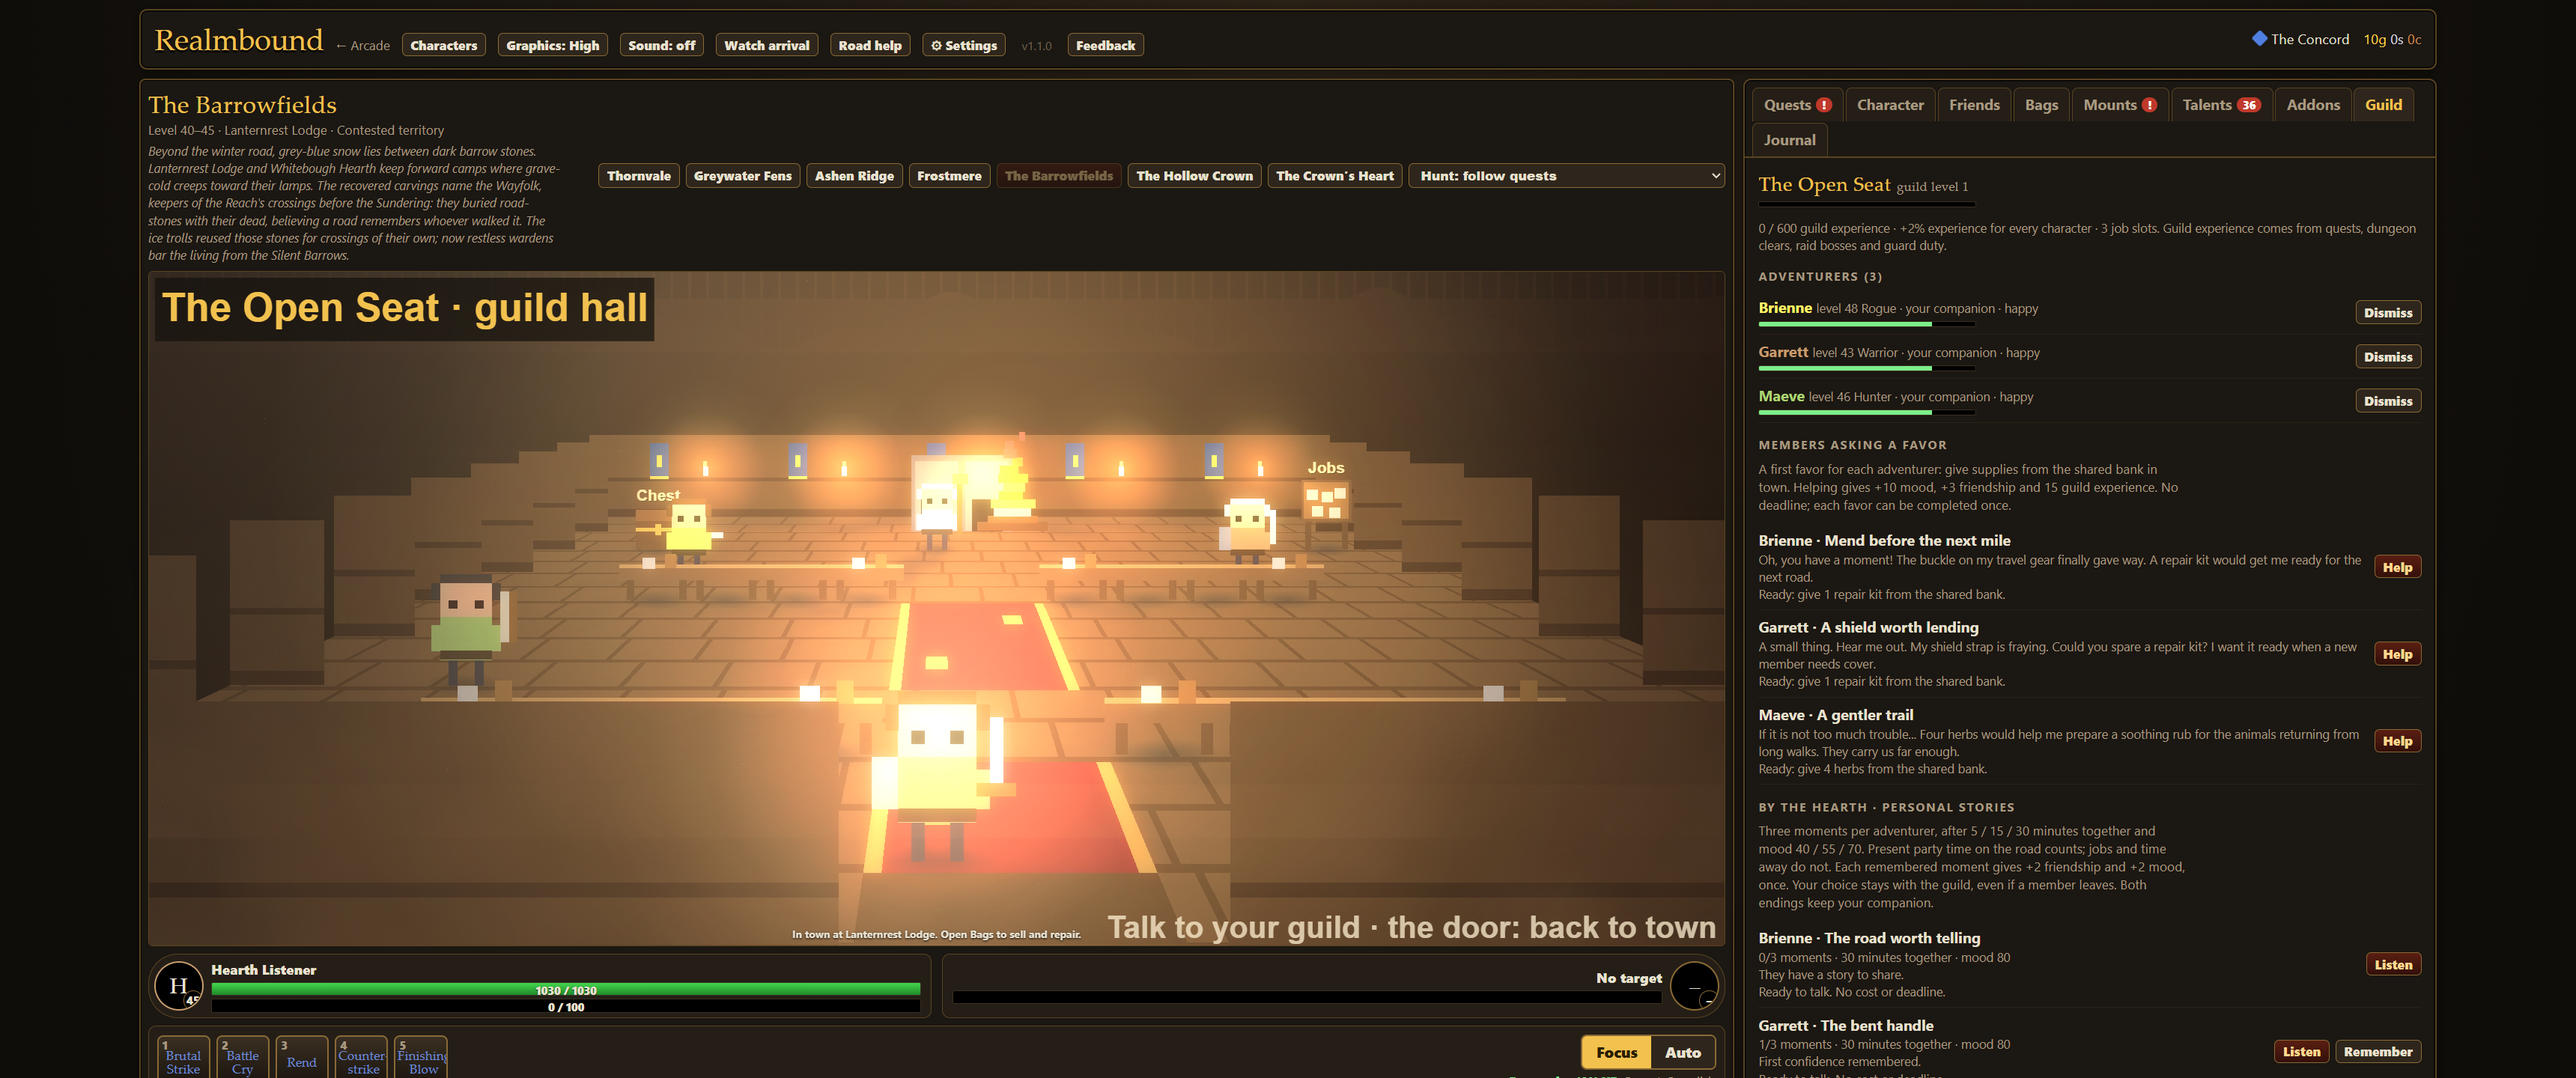
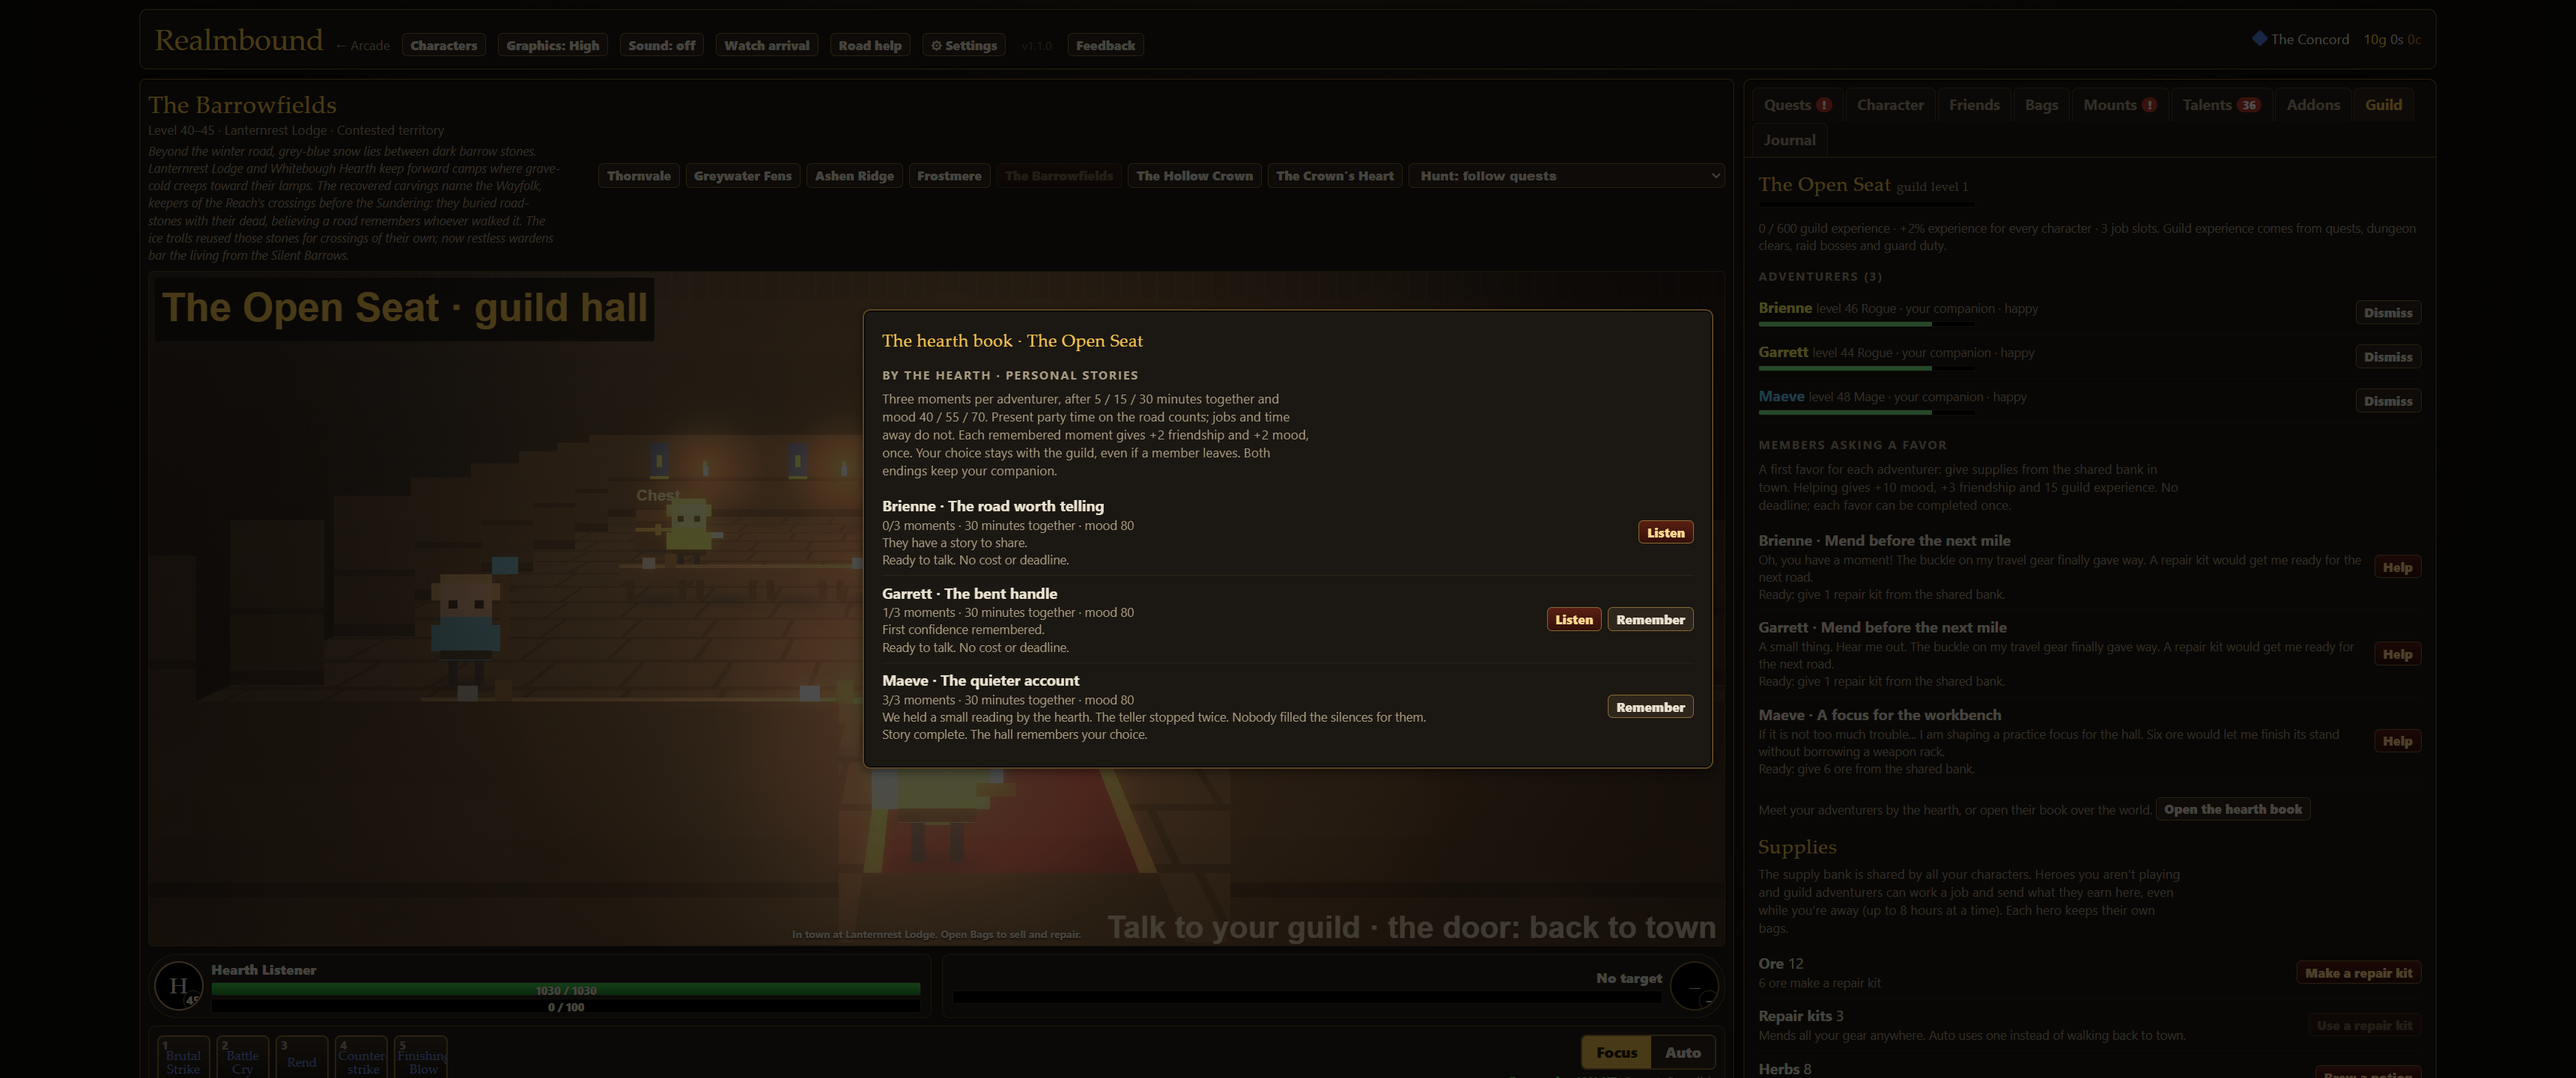
Put guild stories in a hearth book over the game world

diff --git a/games/realmbound/js/27-member-stories.js b/games/realmbound/js/27-member-stories.js
@@ -108,7 +108,8 @@ function playMemberStory(key, replay) {
   const w = workerOf(key), story = memberStoryData(key), state = memberStoryState(key);
   if (!w || !story || (replay ? !state.done : memberStoryProblem(key))) return false;
   if (replay && memberStoryMeetingProblem(key)) return false;
-  const hero = H(), account = S, member = w.m, expected = state.done;
+  const hero = H(), account = S, member = w.m, expected = state.done, book = modalKind === 'memberstories';
+  if (book) closeModal();
   const voice = MEMBER_STORY_VOICE[w.n.pers] || MEMBER_STORY_VOICE.cheerful;
   const lines = replay ? [[w.name, story[1]]].concat(state.done >= 2 ? [[w.name, story[2]], [hero.name, story[3 + state.choice]]] : [], state.done >= 3 ? [[w.name + ':happy', story[5 + state.choice]]] : [])
     : [[w.name, voice[expected]], [w.name, expected === 0 ? story[1] : expected === 1 ? story[2] : story[5 + state.choice]]];
@@ -118,10 +119,16 @@ function playMemberStory(key, replay) {
   SCN.play(lines, choice => {
     if (MEMBER_STORY_FACE === face) { MEMBER_STORY_FACE = null; SCN.el.classList.remove('member-story-dialogue'); }
     // Hero/account changes, dismissal and stale callbacks cannot spend another hero's response.
-    if (replay || S !== account || H() !== hero || G().members[key] !== member) return;
-    if (finishMemberStory(key, expected, choice)) renderTab(true);
+    if (S !== account || H() !== hero || G().members[key] !== member) return;
+    if (!replay && finishMemberStory(key, expected, choice)) renderTab(true);
+    if (book) openMemberStoryBook();
   }, { choices });
   C.lastInput = C.run; TOWN.auto = null; RTALK.memberStory = true; RTALK.memberStoryKey = key; SCN.el.classList.add('member-story-dialogue'); SCN.el.scrollIntoView({ block: 'center' }); return true;
+}
+function openMemberStoryBook() {
+  if (!H() || !guildOn() || RTALK) return false;
+  C.lastInput = C.run; TOWN.auto = null;
+  openModal('memberstories', '<h3>The hearth book · ' + G().name + '</h3>' + memberStoriesHTML()); return true;
 }
 function clearMemberStory(key) {
   if (RTALK && RTALK.memberStory && (key === undefined || RTALK.memberStoryKey === key)) { RTALK = null; SCN.el.hidden = true; MEMBER_STORY_FACE = null; SCN.el.classList.remove('member-story-dialogue'); }
@@ -143,6 +150,7 @@ function memberStoriesHTML() {
 }
 document.addEventListener('click', e => {
   const el = e.target.closest('[data-act]'); if (!el) return;
-  if (el.dataset.act === 'memberstory') playMemberStory(el.dataset.arg, false);
+  if (el.dataset.act === 'memberstorybook') openMemberStoryBook();
+  else if (el.dataset.act === 'memberstory') playMemberStory(el.dataset.arg, false);
   else if (el.dataset.act === 'membermemory') playMemberStory(el.dataset.arg, true);
 });

diff --git a/games/realmbound/js/21-guild.js b/games/realmbound/js/21-guild.js
@@ -160,7 +160,7 @@ function guildHTML() {
       <div class="aff" title="Mood ${mood}"><i style="width:${mood}%;background:${mood >= 70 ? '#7cf08a' : mood >= 30 ? '#f2c14e' : '#e0483e'}"></i></div></div>
       <div class="r"><button class="btn sm alt" data-act="guilddismiss" data-arg="${k}" ${memberRaiding(k) ? 'disabled title="Return from the raid before dismissing this member"' : ''}>Dismiss</button></div></div>`; }).join('') : '<p class="meta">No adventurers yet. Invite companions who are your Friends.</p>';
   if (cand.length) o += `<p class="meta" style="margin-top:6px">Could join: ${cand.map(n => `<button class="btn sm" data-act="guildinvite" data-arg="${n.id}">Invite ${n.name}</button>`).join(' ')}</p>`;
-  return o + memberRequestsHTML() + memberStoriesHTML();
+  return o + memberRequestsHTML() + '<p class="meta">Meet your adventurers by the hearth, or open their book over the world. <button class="btn sm alt" data-act="memberstorybook">Open the hearth book</button></p>';
 }
 document.addEventListener('click', e => {
   const el = e.target.closest('[data-act]'); if (!el || !H()) return; const a = el.dataset.act, arg = el.dataset.arg;

diff --git a/games/realmbound/js/22-town.js b/games/realmbound/js/22-town.js
@@ -129,6 +129,7 @@ function townTalk(n) {
   if (n.isMule) { SCN.play([['Pell', 'That\'s Brisket. He doesn\'t talk, which makes him the best listener in three worlds.']], null); return; }
   const h = H();
   if (n.id === 'member') { memberTalk(n.key); return; }
+  if (n.id === 'registrar') { const hero = H(); SCN.play(n.lines(), choice => { if (choice === 0 && H() === hero) openMemberStoryBook(); }, { choices: ['Open the hearth book', 'Another time'] }); return; }
   if (n.id === 'giver') { const q = (QUESTS[h.zone] || []).find(q => qState(q) === 'avail');
     if (q && h.quests.active.length < 3) { questOffer(q.id); return; }
     SCN.play([[n.name, q ? 'Your pack looks full already. Finish what you carry first, then come and see me.' : 'Nothing new on the board for you today. The road is quieter for your work.']], null); return; }

diff --git a/games/realmbound/js/11-combat.js b/games/realmbound/js/11-combat.js
@@ -180,7 +180,7 @@ function die(){
   if(h.dun){h.dun.wipes++;line('The party wipes. Everyone runs back in.','l-hurt');for(const q of C.party){q.dead=false;q.hp=compStats(q.n).hpMax;}if(C.party.length)say(pick(C.party).n,'wipe');}
 }
 function step(h){
-  if(arrivalPaused() || RTALK && RTALK.memberStory)return; // deliberate stories pause the world, never pick an outcome for the player
+  if(arrivalPaused() || modalKind === 'memberstories' || RTALK && RTALK.memberStory)return; // deliberate stories pause the world, never pick an outcome for the player
   memberStoryTick(h);
   const he=H();C.run+=h;he.stats.play+=h;
   C.gcd=Math.max(0,C.gcd-h);for(const k in C.cds)C.cds[k]=Math.max(0,C.cds[k]-h);

diff --git a/docs/realmbound-member-stories.md b/docs/realmbound-member-stories.md
@@ -2,14 +2,14 @@
 
 Codex, 2026-10-08. Built on the guild, companions, the existing portrait scenes and hall. No release version bump.
 
-Each of the 32 faction adventurers has three short moments: a confidence, a decision, and its aftermath. Both decisions are kind, valid ways forward; the chosen ending is remembered and visible on the Guild tab. These are personal accounts and hall customs, not new combat quests, physical hall props, factions or regions. No story removes a companion. Existing low-mood departures remain the guild's original rule.
+Each of the 32 faction adventurers has three short moments: a confidence, a decision, and its aftermath. Both decisions are kind, valid ways forward; the chosen ending is remembered and visible in the hearth book. These are personal accounts and hall customs, not new combat quests, physical hall props, factions or regions. No story removes a companion. Existing low-mood departures remain the guild's original rule.
 
 ## Unlocks and play route
 
 - Become Friends with an adventurer and invite them to a founded guild. Their generated race, class, hair and personality remain unchanged. Portraits use that member's own faction/race, class colour and hair, even when another hero listens.
-- First confidence: 5 cumulative minutes together and mood 40. Decision: 15 minutes and mood 55. Aftermath: 30 minutes and mood 70. The Guild tab explains missing conditions, current minutes, mood and completed moments.
+- First confidence: 5 cumulative minutes together and mood 40. Decision: 15 minutes and mood 55. Aftermath: 30 minutes and mood 70. The hearth book explains missing conditions, current minutes, mood and completed moments.
 - Only visible, simulated party time on the road (seeking, fighting, resting or collecting loot) counts. A fallen companion, an absent member, alternate player characters, town time, conversations, jobs and offline gains do not. Guild companions visiting another hero's raid count under their owner-qualified key. Time caps at 30 minutes; reloads preserve it.
-- Meet in any town or the walkable guild hall, returning them from a job or saved raid first. Use Focus to listen. A ready hall member speaks their personal story before their favor; the Guild tab keeps the supply favor independently available.
+- Meet in any town or the walkable guild hall, returning them from a job or saved raid first. The story index is a hearth book opened over the world, not another information panel: ask Registrar Mott for it in the hall, or use the legacy Guild tab shortcut while Claude rebuilds that screen. Use Focus to listen. A ready hall member speaks their personal story before their favor; the Guild tab keeps the supply favor independently available.
 - Skip reveals the choices; Another time grants nothing. Stories pause game time, and the shared dialogue adapter prevents Auto from choosing even if Auto is toggled after opening the scene.
 - Each remembered moment gives +2 affinity and +2 mood once. No bank supplies, money, gear, quest XP or guild XP are granted. There is no deadline, random failure, repeat reward or compulsory chore.
 - Remember replays completed lines and the chosen path without changing progress. Unavailable replay buttons explain where to meet. Hero switching, booting and dismissal clear a pending scene without choosing.
@@ -18,7 +18,9 @@ Each of the 32 faction adventurers has three short moments: a confidence, a deci
 
 Optional account ledger: S.guild.stories[memberKey] = {seconds, done, choice}. The member key is the existing adv:<heroId>:<npcId>; identically named companions on different heroes never share progress. It stays when a member leaves and rejoins. Existing founded-guild saves receive an empty ledger; malformed optional fields are clamped, and a missing decision returns to the choice instead of inventing an ending. New guilds start empty. Existing favors, jobs, characters, dungeon records and rewards keep their state.
 
-Story data and helpers live in js/27-member-stories.js. Small hooks load it, migrate the optional ledger, tick present party time, invalidate the Guild tab cache, open hall conversations, pause/clear scenes, and protect choices from Auto. Phone-only story-row styling leaves full width for text and puts buttons beneath it. Opening scrolls the portrait into view without animation; while a story is open, the phone scene grows to fit the full portrait and choices.
+Reading the book pauses game time; choosing Listen closes it to reveal the world portrait. Deferring, finishing and replaying return to the book when that is where you started.
+
+Story data and helpers live in js/27-member-stories.js. Small hooks load it, migrate the optional ledger, tick present party time, invalidate the Guild shortcut cache, open hall conversations, pause/clear scenes, and protect choices from Auto. Phone-only story-row styling leaves full width for text and puts buttons beneath it. Opening scrolls the portrait into view without animation; while a story is open, the phone scene grows to fit the full portrait and choices.
 
 ## Canon arcs
 
@@ -63,7 +65,7 @@ The existing lore hooks now have playable personal accounts, still independent o
 
 Browser scenario coverage exercises all 32 arcs, both outcomes, every gate, defer/Skip/replay, duplicate and stale responses, actual combat-step time, hidden tabs, remote guild raiders, job/raid reservations, dismissal/rejoin, legacy/malformed saves and real save/load. Isolated Chrome UI checks at 375×812, 1366×768, 1920×1080 and 3440×1440 click the actual story buttons, toggle Auto while choices wait, finish an arc, reload it and replay it. Prepared level-45 guild fixtures accelerate these checks; this is not a human pacing playtest.
 
-All seven pages pass: Realmbound 6,675, Wildbond 1,254, Starfall 48, shared sound 21, offline 15, Diamond 83 and Otherworld 38. No uncaught page errors.
+All seven pages pass: Realmbound 6,681, Wildbond 1,254, Starfall 48, shared sound 21, offline 15, Diamond 83 and Otherworld 38. No uncaught page errors.
 
 Run the repository's serve.ps1 and all seven pages. Codex used an in-memory port 8766 copy of that same script so Claude's 8765 server and saves stayed untouched; isolated browser requests for localhost:8765 were routed to this checkout. Phone/ultrawide before-and-after images are in docs/screenshots/realmbound-member-stories/.
 

diff --git a/docs/realmbound-40-60.md b/docs/realmbound-40-60.md
@@ -331,4 +331,4 @@ Full class/journey and endpoint tables, raw records, the reproducible browser ru
 
 ## Personal stories as built (R4, Codex, 2026-10-08)
 
-All 32 named adventurers have three moments gated by shared present-party time (5/15/30 minutes), mood (40/55/70) and Friend affinity. Meet in town or the hall in Focus, with the member returned from a job or raid. A remembered decision produces one of two narrative aftermaths, visible in the Guild tab and replayable without rewards. Each new moment gives +2 affinity and +2 mood once. Time, completed beats and choices live in the optional account ledger S.guild.stories, preserved across reloads, heroes and dismissal/rejoining; offline/jobs do not accrue story time. Supply favors remain separate and available. No story loss, gear, bank cost, XP or release bump. Full rules, arcs and validation: [realmbound-member-stories.md](realmbound-member-stories.md).
+All 32 named adventurers have three moments gated by shared present-party time (5/15/30 minutes), mood (40/55/70) and Friend affinity. Meet in town or the hall in Focus, with the member returned from a job or raid. A remembered decision produces one of two narrative aftermaths, visible in the hearth book and replayable without rewards. Each new moment gives +2 affinity and +2 mood once. Time, completed beats and choices live in the optional account ledger S.guild.stories, preserved across reloads, heroes and dismissal/rejoining; offline/jobs do not accrue story time. Supply favors remain separate and available. No story loss, gear, bank cost, XP or release bump. Full rules, arcs and validation: [realmbound-member-stories.md](realmbound-member-stories.md).

diff --git a/README.md b/README.md
@@ -39,7 +39,7 @@ Anyone continuing this project (any AI assistant or person): open [START-HERE.md
 
 ## Changelog
 
-- Realmbound (2026-10-08): three personal story moments for every guild adventurer, unlocked by present party time, mood and friendship. Remembered decisions have two lasting narrative outcomes; Auto never chooses them. Old saves, independent supply favors and rejoining members keep their progress. All seven test pages pass (6,675 Realmbound checks); phone, laptop, desktop and ultrawide checked. No version bump; PR #49, docs/realmbound-member-stories.md.
+- Realmbound (2026-10-08): three personal story moments for every guild adventurer, unlocked by present party time, mood and friendship. Remembered decisions have two lasting narrative outcomes; Auto never chooses them. Old saves, independent supply favors and rejoining members keep their progress. All seven test pages pass (6,681 Realmbound checks); phone, laptop, desktop and ultrawide checked. No version bump; PR #49, docs/realmbound-member-stories.md.
 
 - Realmbound v1.1.0, onboarding (2026-10-08): a skippable arrival ends on the existing first questgiver, followed by optional contextual guidance for Focus, loot, reward choice, town services and actual companions. Returning saves stay quiet; all seven test pages pass. No version or cache bump; see docs/realmbound-onboarding.md.
 

diff --git a/START-HERE.md b/START-HERE.md
@@ -141,7 +141,7 @@ a default so work never waits.
 
 ## Session log (newest first; one or two lines each)
 
-- 2026-10-08 (Codex): A5/R4 guild member stories ready in PR #49 on codex/realmbound-member-stories: all 32 adventurers have three moments, shared-time/mood gates and two remembered outcomes. All seven pages pass (RB 6,675); 375/1366/1920/3440 UI checked. Saves and favors preserved; no merge/version bump. Next Lane A: A6 roster batch 1.
+- 2026-10-08 (Codex): A5/R4 guild member stories ready in PR #49 on codex/realmbound-member-stories: all 32 adventurers have three moments, shared-time/mood gates and two remembered outcomes. All seven pages pass (RB 6,681); 375/1366/1920/3440 UI checked. Saves and favors preserved; no merge/version bump. Next Lane A: A5b Diamond swings you understand.
 
 - 2026-10-08 Claude (PC session, later): Godot trial: the Emberfall Highlands (cliff road from the coast with the Tide Badge; layered
   cliffs, meadow boulders, amber hot springs with steam, drifting sparks; Orsk, Sela, Warden Toren; battles with a highland skyline).
